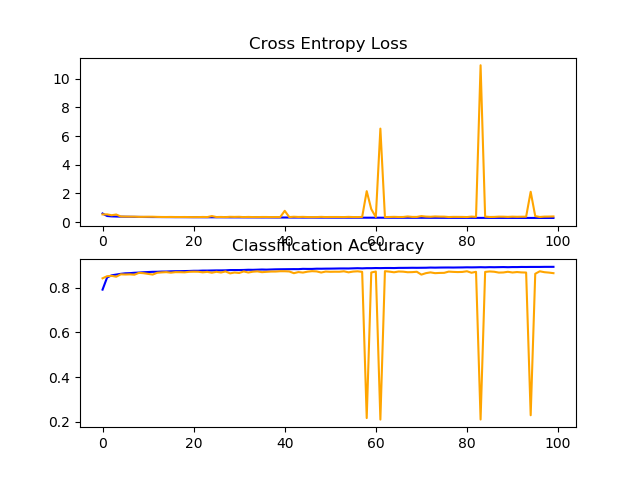
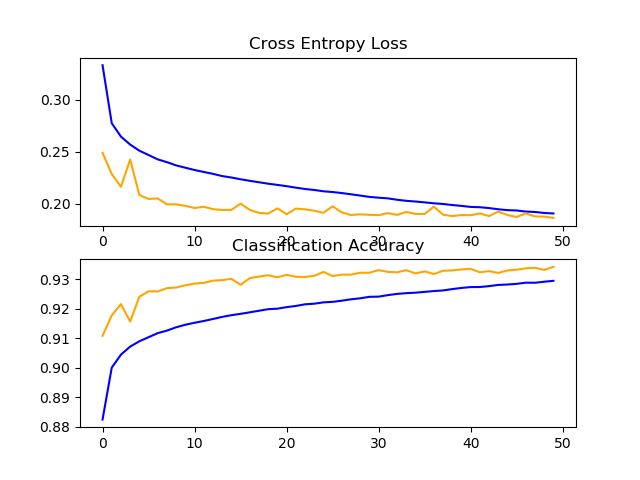
Conv Block works

diff --git a/model_tyt/model_tyt.py b/model_tyt/model_tyt.py
@@ -5,7 +5,7 @@ Cascaded Convolution Model
 - Jeffrey Wan (jw3468)
 
 """
-
+import os
 import pickle
 import numpy as np 
 import pandas as pd
@@ -16,17 +16,19 @@ from keras.preprocessing.text import Tokenizer
 from keras.utils import to_categorical
 from keras.models import Model, Input
 from keras.layers import Embedding, Dense, TimeDistributed, Concatenate, BatchNormalization
-from keras.layers import Bidirectional, Activation, Dropout, CuDNNGRU, Conv1D
+from keras.layers import Bidirectional, Activation, Dropout, CuDNNGRU, Conv1D, Lambda
 from keras import backend as K
+from keras.callbacks import LearningRateScheduler
 
 from sklearn.model_selection import train_test_split, KFold
 from keras.metrics import categorical_accuracy
 from keras import backend as K
 from keras.regularizers import l1, l2
-# from keras.optimizers import Nadam
+from keras.optimizers import RMSprop
 import tensorflow as tf
 from matplotlib import pyplot
 
+os.environ["CUDA_VISIBLE_DEVICES"] = "1"
 
 ### Data Retrieval
 # cb6133         = np.load("../data/cb6133.npy")
@@ -194,12 +196,12 @@ def run_test(_model, data1, data2, data3, csv_name, npy_name):
 
     np.save(npy_name, y_test_pred)
 
-def run_test_single_input(_model, data1, csv_name, npy_name):
+def run_test_single_input(_model, data1, data2, csv_name, npy_name):
     reverse_decoder_index = {value:key for key,value in tokenizer_decoder.word_index.items()}
     reverse_encoder_index = {value:key for key,value in tokenizer_encoder.word_index.items()}
     
     # Get predictions using our model
-    y_test_pred = _model.predict(data1)
+    y_test_pred = _model.predict([data1,data2])
 
     decoded_y_pred = []
     for i in range(len(data1[:])):
@@ -223,20 +225,28 @@ def train(X_train, y_train, X_val=None, y_val=None):
     """
     Define model and use this function for training
     """
-    model = create_CNN(n_super_blocks=2)
+    model = create_CNN(n_super_blocks=8)
     assert(model is not None)
+    initial_lrate = 0.00033
     model.compile(
-        optimizer="Nadam",
+        optimizer=RMSprop(lr=initial_lrate),
         loss = "categorical_crossentropy",
         metrics = ["accuracy", accuracy])
-    
+
+    def one_step(epoch):
+        if epoch > 200:
+            return initial_lrate/10.0
+        else:
+            return initial_lrate
+
+    lrate = LearningRateScheduler(one_step)
     if X_val is not None and y_val is not None:
         history = model.fit( X_train, y_train,
-            batch_size = 128, epochs = 100,
-            validation_data = (X_val, y_val))
+            batch_size = 8, epochs = 50,
+            validation_data = (X_val, y_val), callbacks = [lrate])
     else:
         history = model.fit( X_train, y_train,
-            batch_size = 128, epochs = 100)
+            batch_size = 8, epochs = 50, callbacks = [lrate])
 
     return history, model
 
@@ -260,8 +270,9 @@ def summarize_diagnostics(history):
 ##Eddie
 #n_super blocks : Number of pairs of convolutional blocks
 def create_CNN(n_super_blocks=2):
+
     def conv_block(inp,ind):
-        c1 = Conv1D(36,1,padding='same',activation='linear',name='c1_'+str(ind))(inp)
+        c1 = Conv1D(96,1,padding='same',activation='linear',name='c1_'+str(ind))(inp)
         c3=Conv1D(64,3,padding='same',activation='linear',name='c3_'+str(ind))(inp)
         c7=Conv1D(64,7,padding='same',activation='linear',name='c7_'+str(ind))(inp)
         c9=Conv1D(64,9,padding='same',activation='linear',name='c9_'+str(ind))(inp)
@@ -278,28 +289,28 @@ def create_CNN(n_super_blocks=2):
         concat2 = Concatenate(axis=-1,name='conc2_'+str(ind))([c1,act,act2])
         return concat2
 
-    def dense_block(inp,ind):
-        d1 = TimeDistributed(Dense(455,activation='linear',name='d_'+str(ind)))(inp)
-        bn = BatchNormalization(name='bnd_'+str(ind))(d1)
-        drop = Dropout(0.2,name='d_dropout_'+str(ind))(bn)
-        act = Activation('relu',name='relu_d_'+str(ind))(drop)
-        return act
-
+    # def dense_block(inp,ind):
+    #     d1 = TimeDistributed(Dense(455,activation='linear',name='d_'+str(ind)))(inp)
+    #     bn = BatchNormalization(name='bnd_'+str(ind))(d1)
+    #     drop = Dropout(0.2,name='d_dropout_'+str(ind))(bn)
+    #     act = Activation('relu',name='relu_d_'+str(ind))(drop)
+    #     return act
     
-    c_ind=0
-    d_ind=0
-    inp = Input((700,22))
-    inpp = inp
+    inp          = Input(shape=(maxlen_seq, n_words))
+    inp_profiles = Input(shape=(maxlen_seq, 22))
+    x = Concatenate(axis=-1)([inp, inp_profiles])
 
     for i in range(n_super_blocks):
-        c1 = conv_block(inpp,c_ind)
-        c2 = conv_block(c1,c_ind+1)
-        c_ind+=2
-        inpp = dense_block(c2,d_ind)
-        d_ind+=1
+        x = conv_block(x,i)
 
-    o = TimeDistributed(Dense(9,activation='softmax'))(inpp)
-    m = Model(inp,o)
+    x = TimeDistributed(Dense(455,activation='linear'))(x)
+    x = TimeDistributed(BatchNormalization())(x)
+    x = TimeDistributed(Activation('relu'))(x)
+    x = TimeDistributed(Dropout(0.2))(x)
+
+    o = TimeDistributed(Dense(9,activation='softmax'))(x)
+    
+    m = Model([inp, inp_profiles],o)
     m.summary()
     return m
 
@@ -316,7 +327,7 @@ train_input_data_alt = train_input_data_alt[randomize]
 train_profiles_np =  train_profiles_np[randomize]
 train_target_data = train_target_data[randomize]
 
-val_p = 0.2
+val_p = 0.02
 vn = int(val_p*train_target_data.shape[0])
 
 # # To use 3.3 Bidirectional GRU with convolutional blocks from paper (using a validation set) use:
@@ -331,16 +342,31 @@ vn = int(val_p*train_target_data.shape[0])
 # X_val = None
 # y_val = None
 
-# To use any other model with a simple one hot residue encoding (using a validation set) use:
-X_train = train_input_data[vn:,:,:]
-y_train = train_target_data[vn:,:,:]
-X_val = train_input_data[:vn,:,:]
-y_val = train_target_data[:vn,:,:]
-print('X_train shape: ' + str(X_train.shape))
-print('y_train shape: ' + str(y_train.shape))
-print('X_val shape: ' + str(X_val.shape))
-print('y_val shape: ' + str(y_val.shape))
+# # To use any other model with a simple one hot residue encoding (using a validation set) use:
+# X_train = train_input_data[vn:,:,:]
+# y_train = train_target_data[vn:,:,:]
+# X_val = train_input_data[:vn,:,:]
+# y_val = train_target_data[:vn,:,:]
+# print('X_train shape: ' + str(X_train.shape))
+# print('y_train shape: ' + str(y_train.shape))
+# print('X_val shape: ' + str(X_val.shape))
+# print('y_val shape: ' + str(y_val.shape))
 
+# # To use any other model with a PSSM encoding (using a validation set) use:
+# X_train = train_profiles_np[vn:,:,:]
+# y_train = train_target_data[vn:,:,:]
+# X_val = train_profiles_np[:vn,:,:]
+# y_val = train_target_data[:vn,:,:]
+# print('X_train shape: ' + str(X_train.shape))
+# print('y_train shape: ' + str(y_train.shape))
+# print('X_val shape: ' + str(X_val.shape))
+# print('y_val shape: ' + str(y_val.shape))
+
+# To use 3.3 Bidirectional GRU with convolutional blocks from paper (using a validation set) use:
+X_train = [train_input_data[vn:,:,:], train_profiles_np[vn:,:,:]]
+y_train = train_target_data[vn:,:,:]
+X_val = [train_input_data[:vn,:,:], train_profiles_np[:vn,:,:]]
+y_val = train_target_data[:vn,:,:]
 
 history, model = train(X_train, y_train, X_val=X_val, y_val=y_val)
 
@@ -357,6 +383,7 @@ with open("history_tyt.pkl", "wb") as hist_file:
 # Predict on test dataset and save the output (1 input model)
 run_test_single_input(model,
     test_input_data[:],
+    test_profiles_np[:],
     "cb513_test_1.csv", "cb513_test_prob_1.npy")
 
 # # Predict on test dataset and save the output (3 input model)
